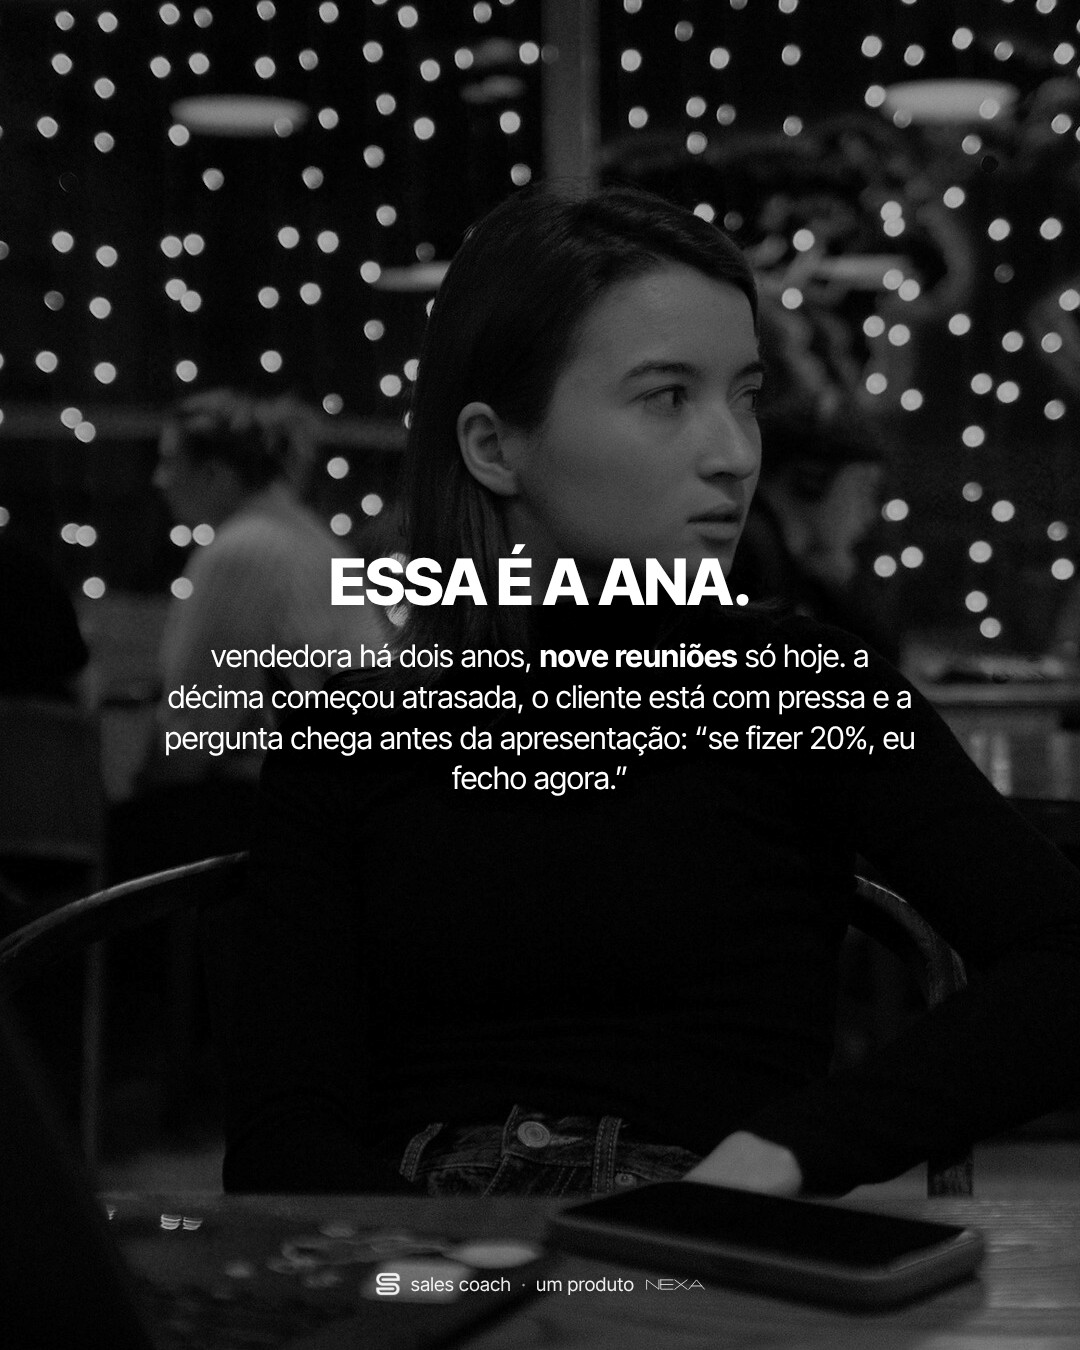
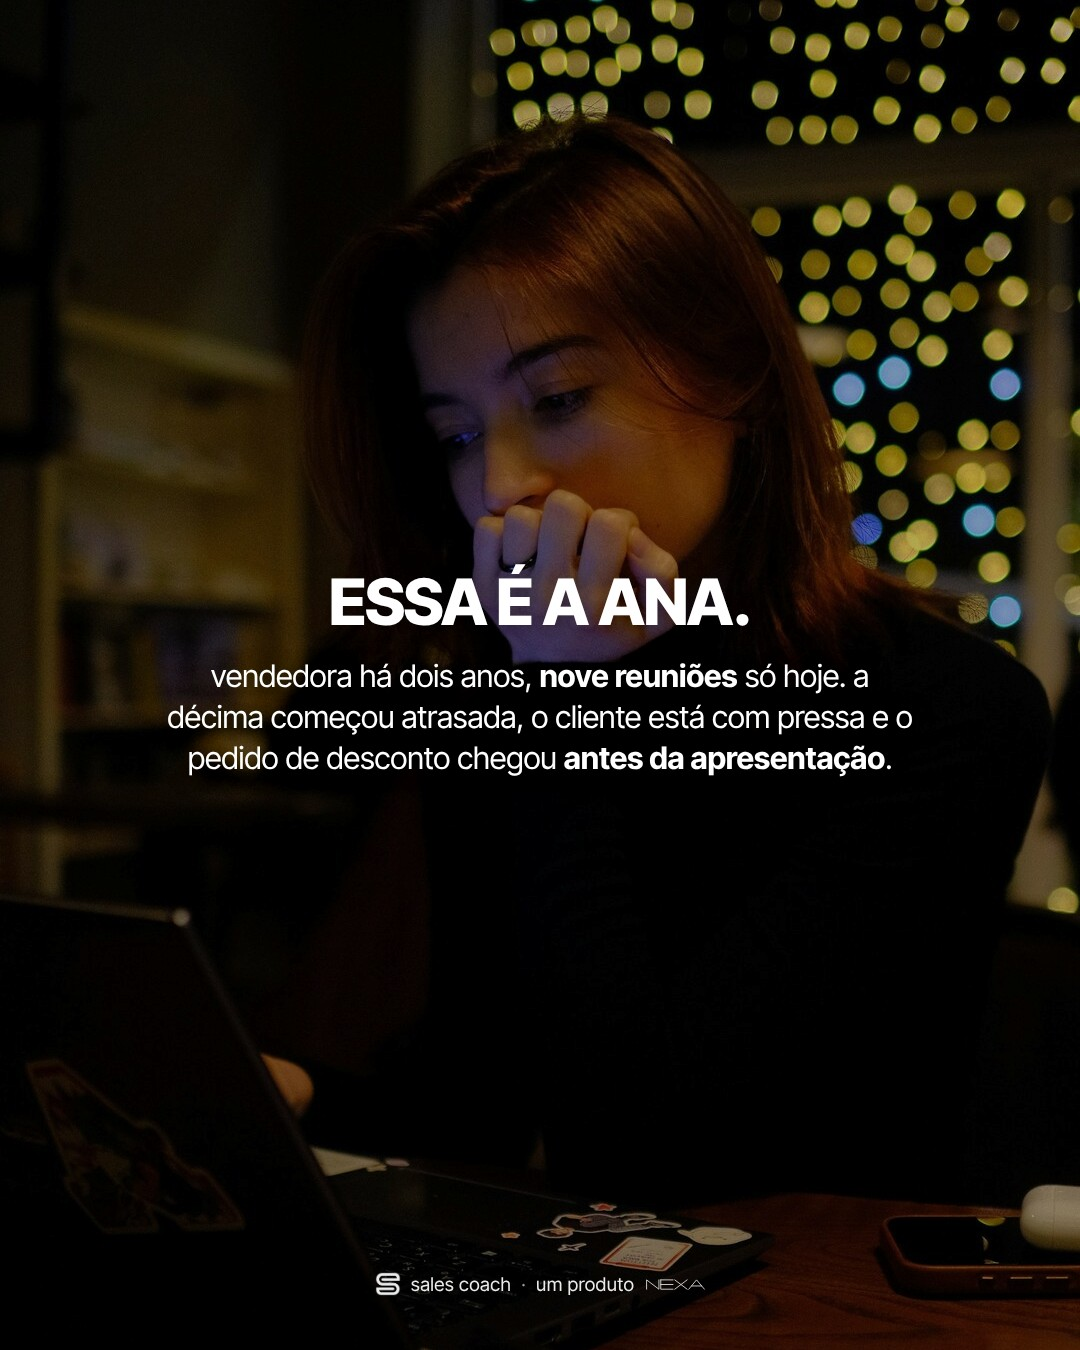
s5: nova capa com a fala do cliente em balão
Claude-Session: https://claude.ai/code/session_01D69rV6pxRKedanUm525i1S

diff --git a/social/serie-nowdays/serie.html b/social/serie-nowdays/serie.html
@@ -46,6 +46,19 @@ em { font-style: italic; font-weight: 700; }
   text-shadow: 0 2px 30px rgba(0,0,0,.35); }
 .capa-txt.peq { font-weight: 700; font-size: 48px; letter-spacing: .06em; word-spacing: .55em; line-height: 1.3; text-transform: uppercase; }
 .capa-txt.gig { font-weight: 800; font-size: 118px; letter-spacing: -.045em; line-height: .9; text-transform: uppercase; left: 60px; right: 60px; }
+/* Capa "chat": a fala do cliente num balão sobre a foto, com a pergunta embaixo */
+.chat-kick { position: absolute; top: 96px; left: 90px; z-index: 3; font-size: 24px; font-weight: 700; letter-spacing: .28em; text-transform: uppercase; display: flex; align-items: center; gap: 16px; }
+.chat-kick i { width: 14px; height: 14px; border-radius: 50%; background: #ff4d4d; box-shadow: 0 0 0 6px rgba(255,77,77,.25); }
+.chat-baixo { position: absolute; left: 90px; right: 90px; bottom: 190px; z-index: 3; }
+.chat-quem { font-size: 22px; letter-spacing: .18em; text-transform: uppercase; opacity: .8; margin: 0 0 14px 6px; }
+.chat-bal { display: inline-block; background: #fff; color: #0b0b0b; font-weight: 600; font-size: 50px; line-height: 1.12; letter-spacing: -.02em;
+  padding: 30px 40px 34px; border-radius: 40px 40px 40px 10px; box-shadow: 0 30px 70px -20px rgba(0,0,0,.6); max-width: 820px; }
+.chat-dig { display: inline-flex; gap: 10px; background: rgba(255,255,255,.16); backdrop-filter: blur(8px); padding: 20px 26px; border-radius: 30px 30px 30px 8px; margin: 18px 0 0; }
+.chat-dig b { width: 14px; height: 14px; border-radius: 50%; background: #fff; opacity: .8; }
+.chat-dig b:nth-child(2) { opacity: .55; } .chat-dig b:nth-child(3) { opacity: .3; }
+.chat-perg { font-family: 'Instrument Serif', serif; font-size: 78px; line-height: 1; margin-top: 54px; letter-spacing: -.01em; }
+.chat-perg em { font-style: italic; color: var(--dest); }
+.chat-sombra { position: absolute; inset: 0; z-index: 2; background: linear-gradient(180deg, rgba(0,0,0,.45) 0%, rgba(0,0,0,0) 28%, rgba(0,0,0,.2) 50%, rgba(0,0,0,.82) 100%); }
 
 /* Assinatura */
 .ass { position: absolute; left: 0; right: 0; bottom: 54px; display: flex; justify-content: center; align-items: center; gap: 10px;
@@ -154,7 +167,10 @@ function assinatura(claro) {
 }
 
 const R = {
-  capa: () => [`tela grao`, `${foto(t.foto)}<div class="capa-txt ${t.modo || 'peq'}">${t.modo === 'gig' ? t.texto
+  capa: () => t.modo === 'chat' ? [`tela grao`, `${foto(t.foto)}<div class="chat-sombra"></div><div class="chat-kick"><i></i>${t.kick}</div>
+    <div class="chat-baixo"><div class="chat-quem">${t.quem}</div><div class="chat-bal">${t.fala}</div><br><div class="chat-dig"><b></b><b></b><b></b></div>
+    <div class="chat-perg">${md(t.texto)}</div></div>`]
+  : [`tela grao`, `${foto(t.foto)}<div class="capa-txt ${t.modo || 'peq'}">${t.modo === 'gig' ? t.texto
     : t.texto.split('\n').join('<br>')}</div>`],
   contexto: () => [`tela esc grao`, `${t.foto ? foto(t.foto, 'escura') : ''}<div class="bloco" style="bottom:170px"><div class="titulo">${md(t.titulo)}</div><p>${md(t.texto)}</p></div>`],
   dado: () => [`tela esc grao`, `${t.foto ? `<div class="dado-foto" style="background-image:url(fotos/${t.foto}.jpg)"></div>` : ''}

diff --git a/social/serie-nowdays/dados.js b/social/serie-nowdays/dados.js
@@ -154,9 +154,9 @@ const POSTS = [
   },
   {
     id: 's5', marca: 'sc', slug: 'black-friday-desconto', tipo: 'conteúdo', telas: [
-      { tipo: 'capa', modo: 'gig', foto: 's5-capa', texto: 'black friday, 17h40.\no cliente pede\n20% de desconto.' },
+      { tipo: 'capa', modo: 'chat', foto: 's5-capa', kick: 'black friday · 17h40', quem: 'cliente · décima reunião do dia', fala: '“se fizer 20%, eu fecho agora.”', texto: 'e agora, *o que você responde?*' },
       { tipo: 'cur', foto: 's5-ctx', titulo: 'essa é a ana.',
-        texto: 'vendedora há dois anos, **nove reuniões** só hoje. a décima começou atrasada, o cliente está com pressa e a pergunta chega antes da apresentação: “se fizer 20%, eu fecho agora.”' },
+        texto: 'vendedora há dois anos, **nove reuniões** só hoje. a décima começou atrasada, o cliente está com pressa e o pedido de desconto chegou **antes da apresentação**.' },
       { tipo: 'textoimg', foto: 's5-txt',
         a: 'ela tem uns **dez segundos** pra responder.',
         b: 'ninguém ensinou a ana o que fazer nessa hora. ela aprendeu sozinha, **com o cliente na frente**. e quando ninguém ensina, o desconto vira a resposta mais fácil.' },

diff --git a/social/serie-nowdays/fotos/s5-fotos.md b/social/serie-nowdays/fotos/s5-fotos.md
@@ -1,5 +1,5 @@
 # Fotos do s5 (Unsplash, licença Unsplash)
-- s5-capa: Murat · https://unsplash.com/photos/FbWTaH5quRY
-- s5-ctx: Murat · https://unsplash.com/photos/budtVv4usSI
+- s5-capa: Murat · https://unsplash.com/photos/budtVv4usSI
+- s5-ctx: Murat · https://unsplash.com/photos/FbWTaH5quRY
 - s5-txt: Murat · https://unsplash.com/photos/_gZcwffbZ9k
 - s5-fim: Rodrigo Rodrigues (WOLF ART) · https://unsplash.com/photos/GwLG4qG3y0U
